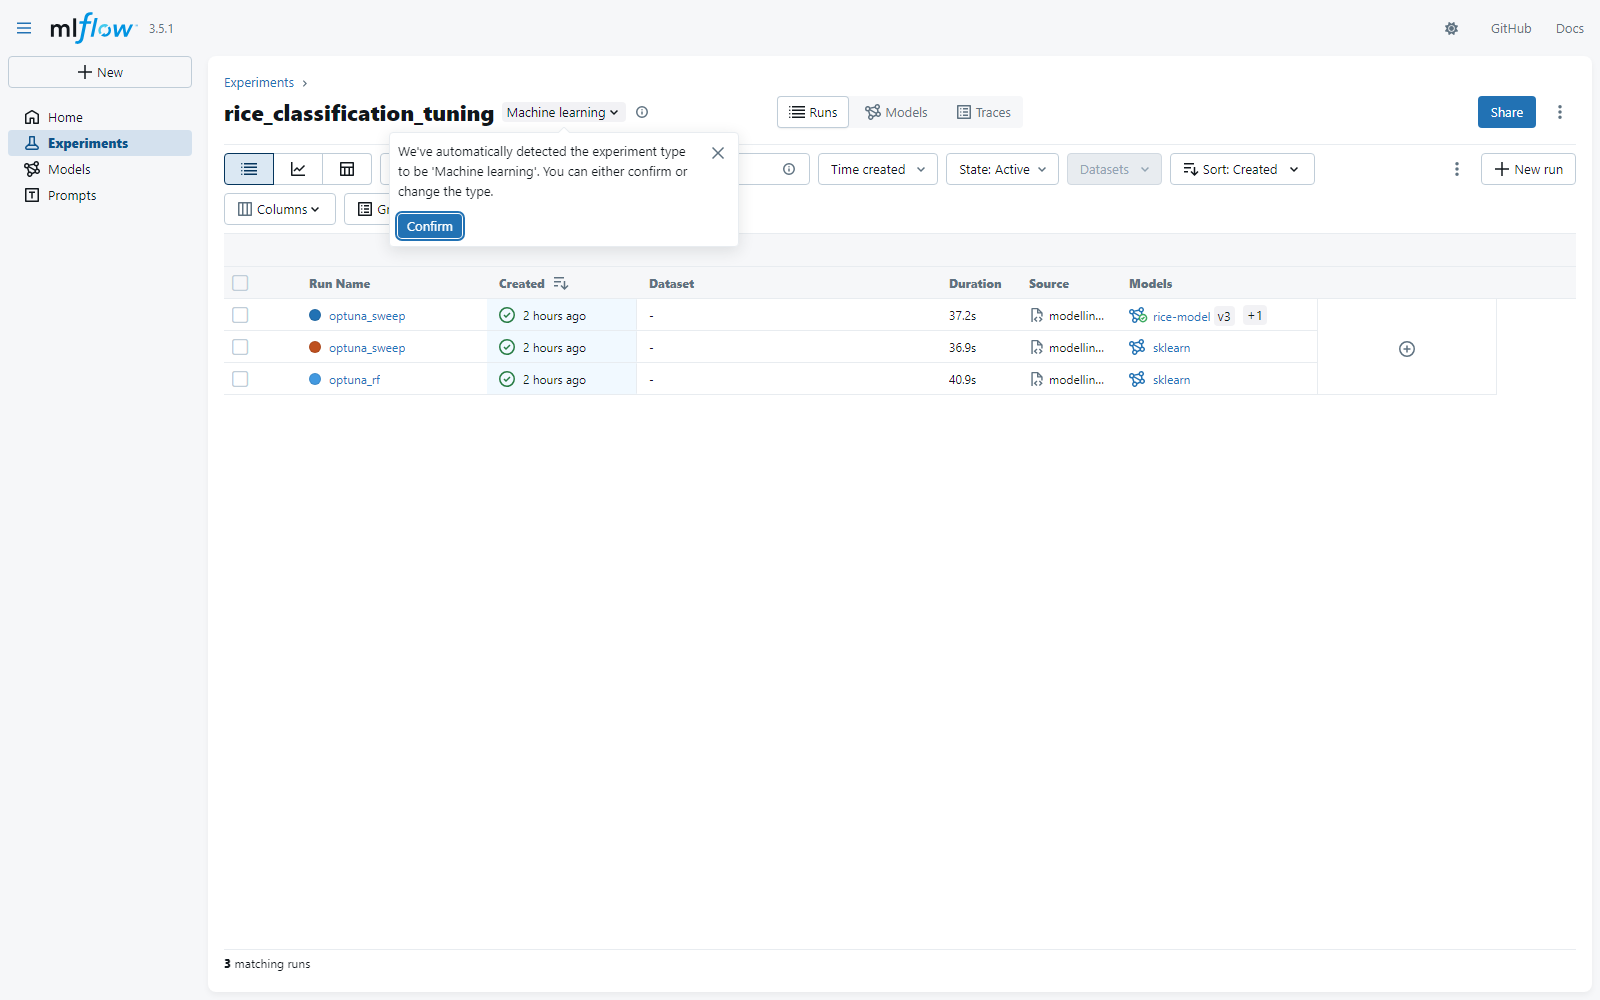
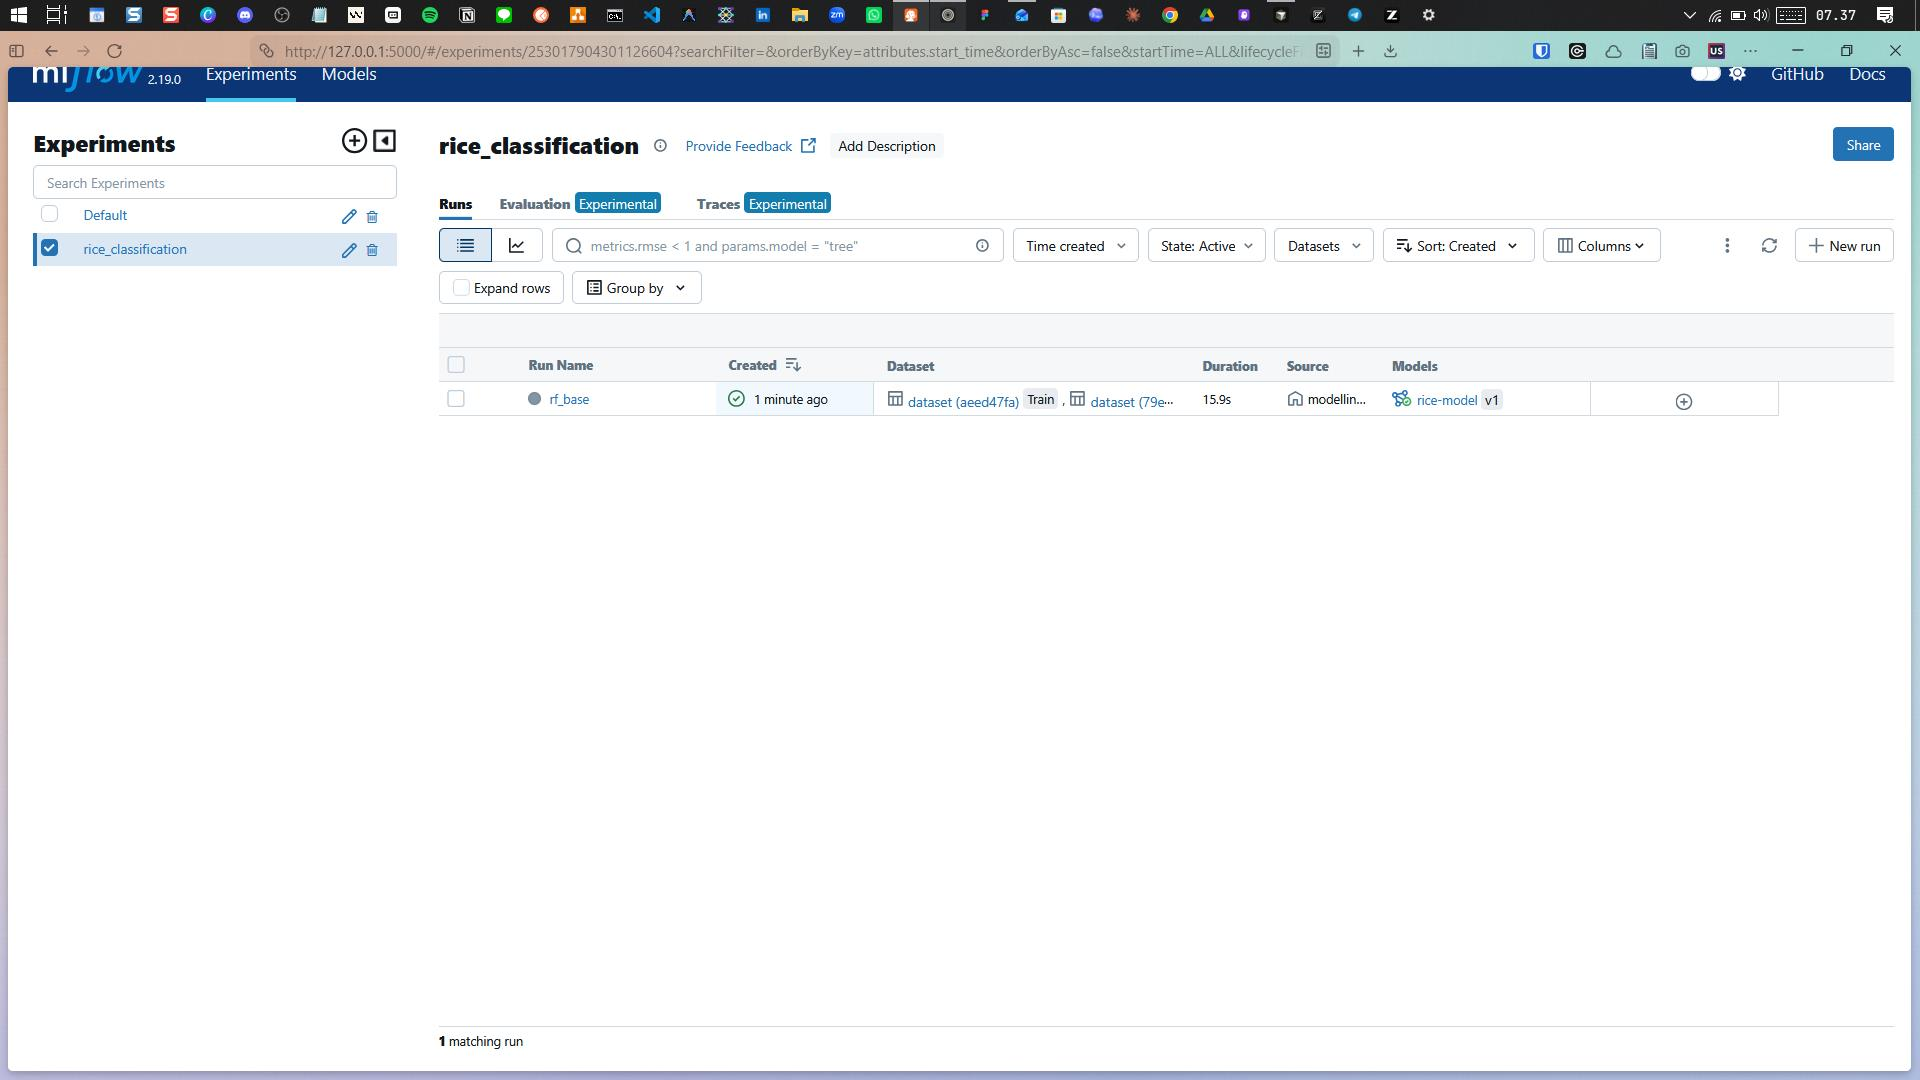
fix(kriteria2): hardcode local-only MLflow tracking in modelling.py
Reviewer feedback: modelling.py must not have any conditional logic
pointing to a cloud tracking server (DagsHub). Basic level requires
unambiguous local tracking.

- Remove load_dotenv() and all DAGSHUB_* env var checks from modelling.py
- Hardcode mlflow.set_tracking_uri to a local ./mlruns file path
- DagsHub integration remains exclusively in modelling_tuning.py (Advance)
- Replace screenshoot_dashboard.jpg / screenshoot_artifak.jpg with fresh
  screenshots proving 127.0.0.1 local tracking (visible browser URL bar +
  file: artifact path), archive the old DagsHub-sourced screenshots for audit
- Update DagsHub.txt and mlflow_tracking_evidence/README.md to clarify the
  Basic (local) vs Advance (DagsHub) separation

diff --git a/Membangun_model/modelling.py b/Membangun_model/modelling.py
@@ -1,8 +1,12 @@
-"""Training script (Kriteria 2) — autolog + manual logging metrics + DagsHub tracking."""
+"""Training script (Kriteria 2 - Basic) — autolog + manual logging metrics.
+
+Tracking MLflow disimpan 100% LOKAL di komputer (folder ./mlruns di samping skrip ini).
+Skrip ini SENGAJA tidak memiliki logika kondisional ke server cloud manapun (DagsHub dsb.)
+agar tidak ambigu saat direview — sesuai ketentuan Kriteria 2 tingkat Basic.
+Tracking online (DagsHub) hanya dipakai pada modelling_tuning.py (tingkat Advance).
+"""
 from __future__ import annotations
 
-import json
-import os
 import sys
 from pathlib import Path
 
@@ -15,7 +19,6 @@ import mlflow
 import mlflow.sklearn
 import numpy as np
 import pandas as pd
-from dotenv import load_dotenv
 from sklearn.ensemble import RandomForestClassifier
 from sklearn.metrics import (
     accuracy_score,
@@ -25,26 +28,15 @@ from sklearn.metrics import (
     recall_score,
     roc_auc_score,
 )
-from sklearn.model_selection import train_test_split
-
-load_dotenv()
 
 ROOT = Path(__file__).resolve().parent
 DATA_DIR = ROOT / "rice_preprocessing"
 EXPERIMENT_NAME = "rice_classification"
 MODEL_NAME = "rice-model"
 
-# MLflow: connect ke DagsHub kalau tersedia, kalau tidak fallback lokal
-_dagshub_user = os.getenv("DAGSHUB_USERNAME")
-_dagshub_token = os.getenv("DAGSHUB_TOKEN")
-_dagshub_repo = os.getenv("DAGSHUB_REPO")
-if _dagshub_user and _dagshub_token and _dagshub_repo:
-    tracking_uri = (
-        f"https://{_dagshub_user}:{_dagshub_token}"
-        f"@dagshub.com/{_dagshub_user}/{_dagshub_repo}.mlflow"
-    )
-    mlflow.set_tracking_uri(tracking_uri)
-
+# Hardcoded local tracking URI — MLflow Tracking UI berjalan di 127.0.0.1 dari
+# folder ./mlruns lokal ini. Tidak ada koneksi ke server pihak ketiga mana pun.
+mlflow.set_tracking_uri(f"file:{(ROOT / 'mlruns').as_posix()}")
 mlflow.set_experiment(EXPERIMENT_NAME)
 
 
@@ -126,8 +118,8 @@ def main() -> int:
         mlflow.log_metrics(
             {"accuracy": acc, "precision": prec, "recall": rec, "f1": f1, "roc_auc": roc}
         )
-        mlflow.set_tag("dataset", os.getenv("DATASET_NAME", "rice"))
-        mlflow.set_tag("author", os.getenv("NAMA_SISWA", "Muhammad-Yusuf"))
+        mlflow.set_tag("dataset", "rice")
+        mlflow.set_tag("author", "Muhammad-Yusuf")
         mlflow.set_tag("stage", "Staging")
         print(f"metrics: acc={acc:.4f} f1={f1:.4f} auc={roc:.4f}")
 

diff --git a/scripts/build_submission_zip.py b/scripts/build_submission_zip.py
@@ -90,6 +90,7 @@ copy("Membangun_model/screenshoot_artifak.jpg", "Membangun_model/screenshoot_art
 copy("Membangun_model/requirements.txt", "Membangun_model/requirements.txt")
 copy("Membangun_model/DagsHub.txt", "Membangun_model/DagsHub.txt")
 copy("Membangun_model/rice_preprocessing", "Membangun_model/rice_preprocessing")
+copy("Membangun_model/mlflow_tracking_evidence", "Membangun_model/mlflow_tracking_evidence")
 
 # Monitoring dan Logging
 print("[3/3] Monitoring dan Logging")

diff --git a/Membangun_model/mlflow_tracking_evidence/README.md b/Membangun_model/mlflow_tracking_evidence/README.md
@@ -3,6 +3,15 @@
 Folder ini berisi bukti tangkapan layar MLflow Tracking UI untuk setiap level kriteria 2,
 sebagai pelengkap `screenshoot_dashboard.jpg` dan `screenshoot_artifak.jpg` di folder induk.
 
+> **Catatan revisi (perbaikan Basic level):** `modelling.py` sekarang **hardcode**
+> `mlflow.set_tracking_uri(f"file:{ROOT/'mlruns'}")` — tanpa `load_dotenv()`, tanpa
+> pengecekan `DAGSHUB_*`, dan tanpa logika kondisional apa pun ke server cloud. Skrip ini
+> **selalu** menulis ke folder `mlruns` lokal, apa pun isi environment variable-nya.
+> Integrasi DagsHub hanya ada di `modelling_tuning.py` (Skilled/Advance).
+> `screenshoot_dashboard.jpg` dan `screenshoot_artifak.jpg` di folder induk sudah diganti
+> dengan tangkapan layar terbaru yang menampilkan address bar browser `127.0.0.1:5000`
+> dan `Path: file:C:/Users/.../Membangun_model/mlruns/...` sebagai bukti tak ambigu.
+
 ## `local/` — Basic & Skilled (MLflow Tracking UI lokal, `http://127.0.0.1:5000`)
 
 | File | Menunjukkan |